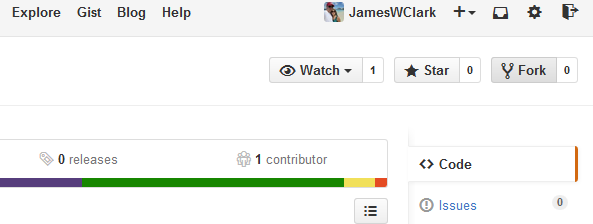
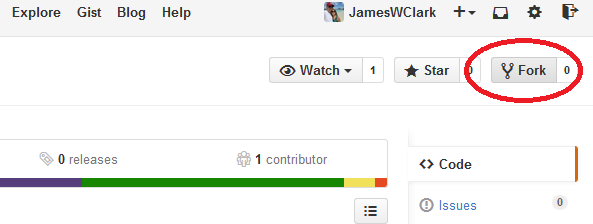
forking

Changed region(s): [[0.7589, 0.1562, 1.0, 0.4688]]

diff --git a/Git/Fork.html b/Git/Fork.html
@@ -3,7 +3,8 @@ layout: page
 ---
 <div class="container">
 
-  <p>Forking in Github is simple. Visit any Github repository, such as the one I used during camp and click the Fork button.</p>
+  <p>Forking in Github is simple. Visit any Github repository, such as the one I used during camp and click the Fork button.<br />
+    <a href="https://github.com/JamesWClark/CFC2015" target="_blank">https://github.com/JamesWClark/CFC2015</a></p>
   <img src="../img/github-forking.png" />
   <p>&nbsp;</p>
   <img src="../img/github-forking01.png" />

diff --git a/README.md b/README.md
@@ -1,1 +1,1 @@
-# Processing2D
+# Camp for Coders 2015
